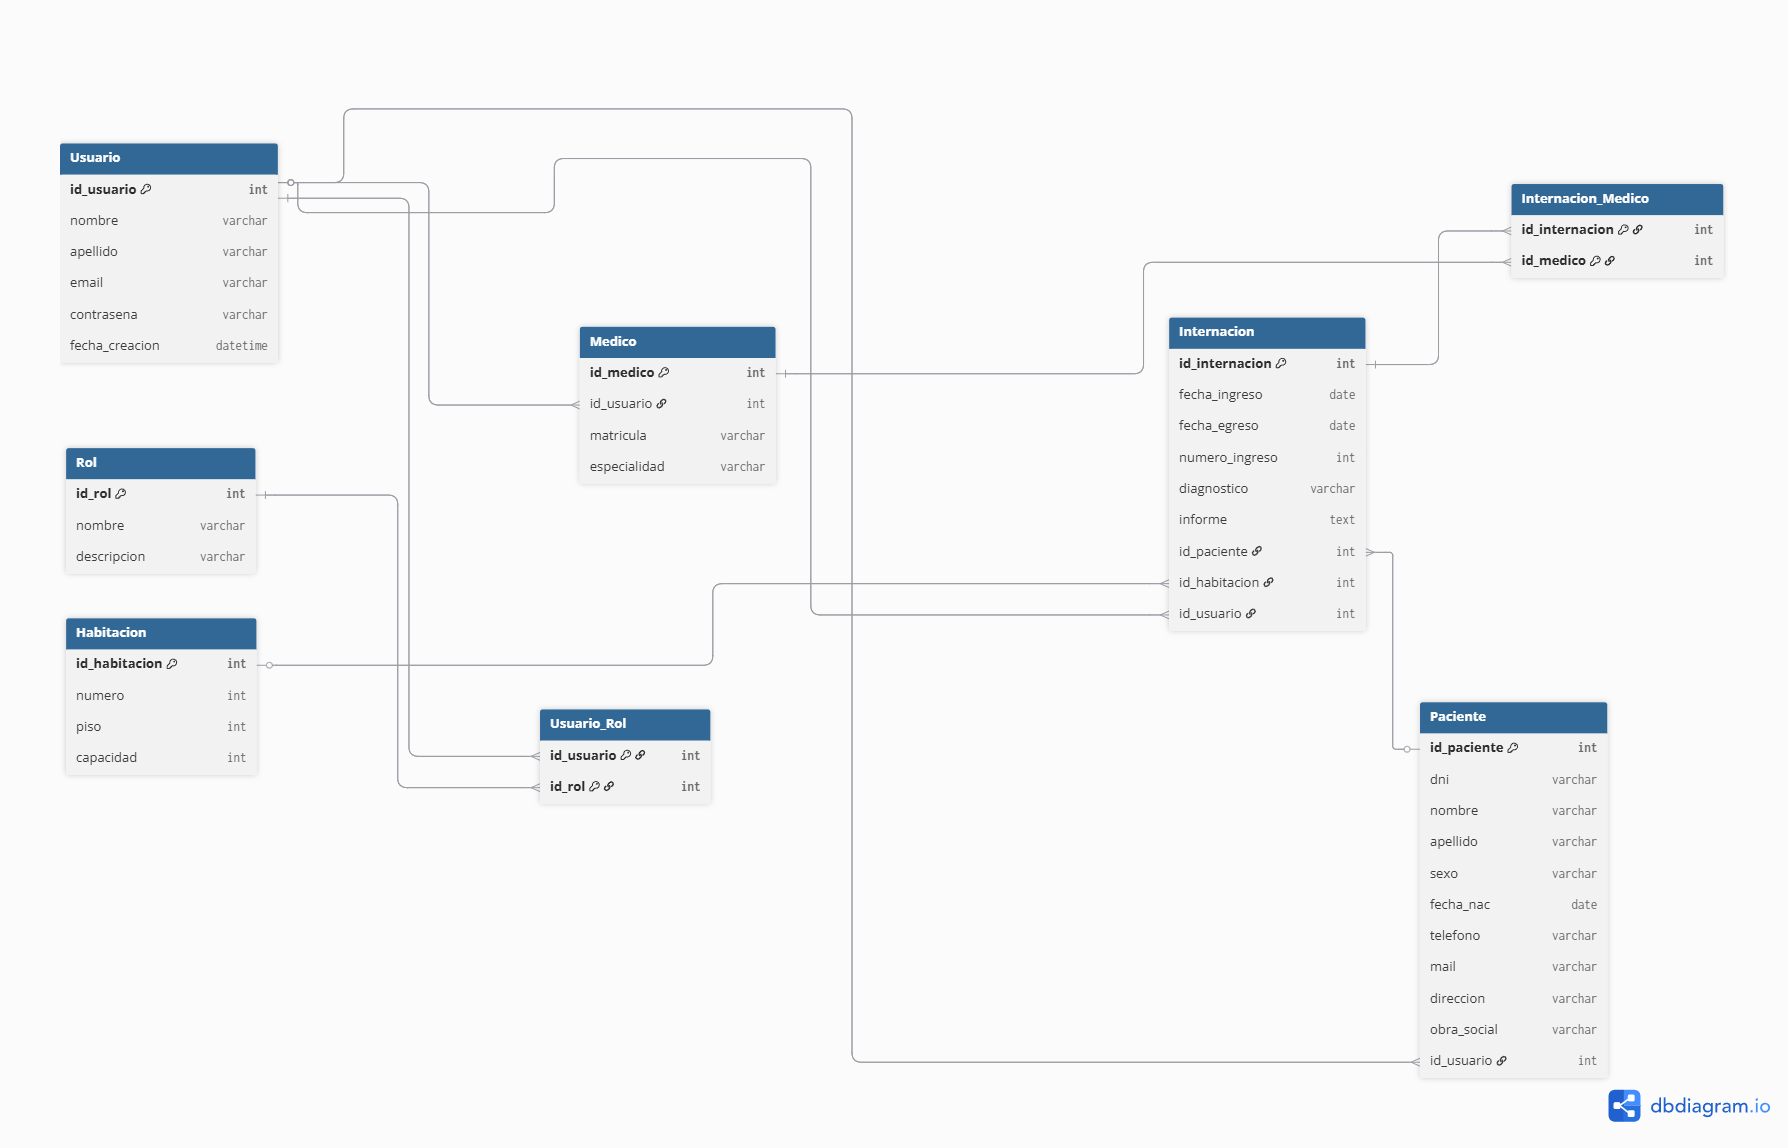
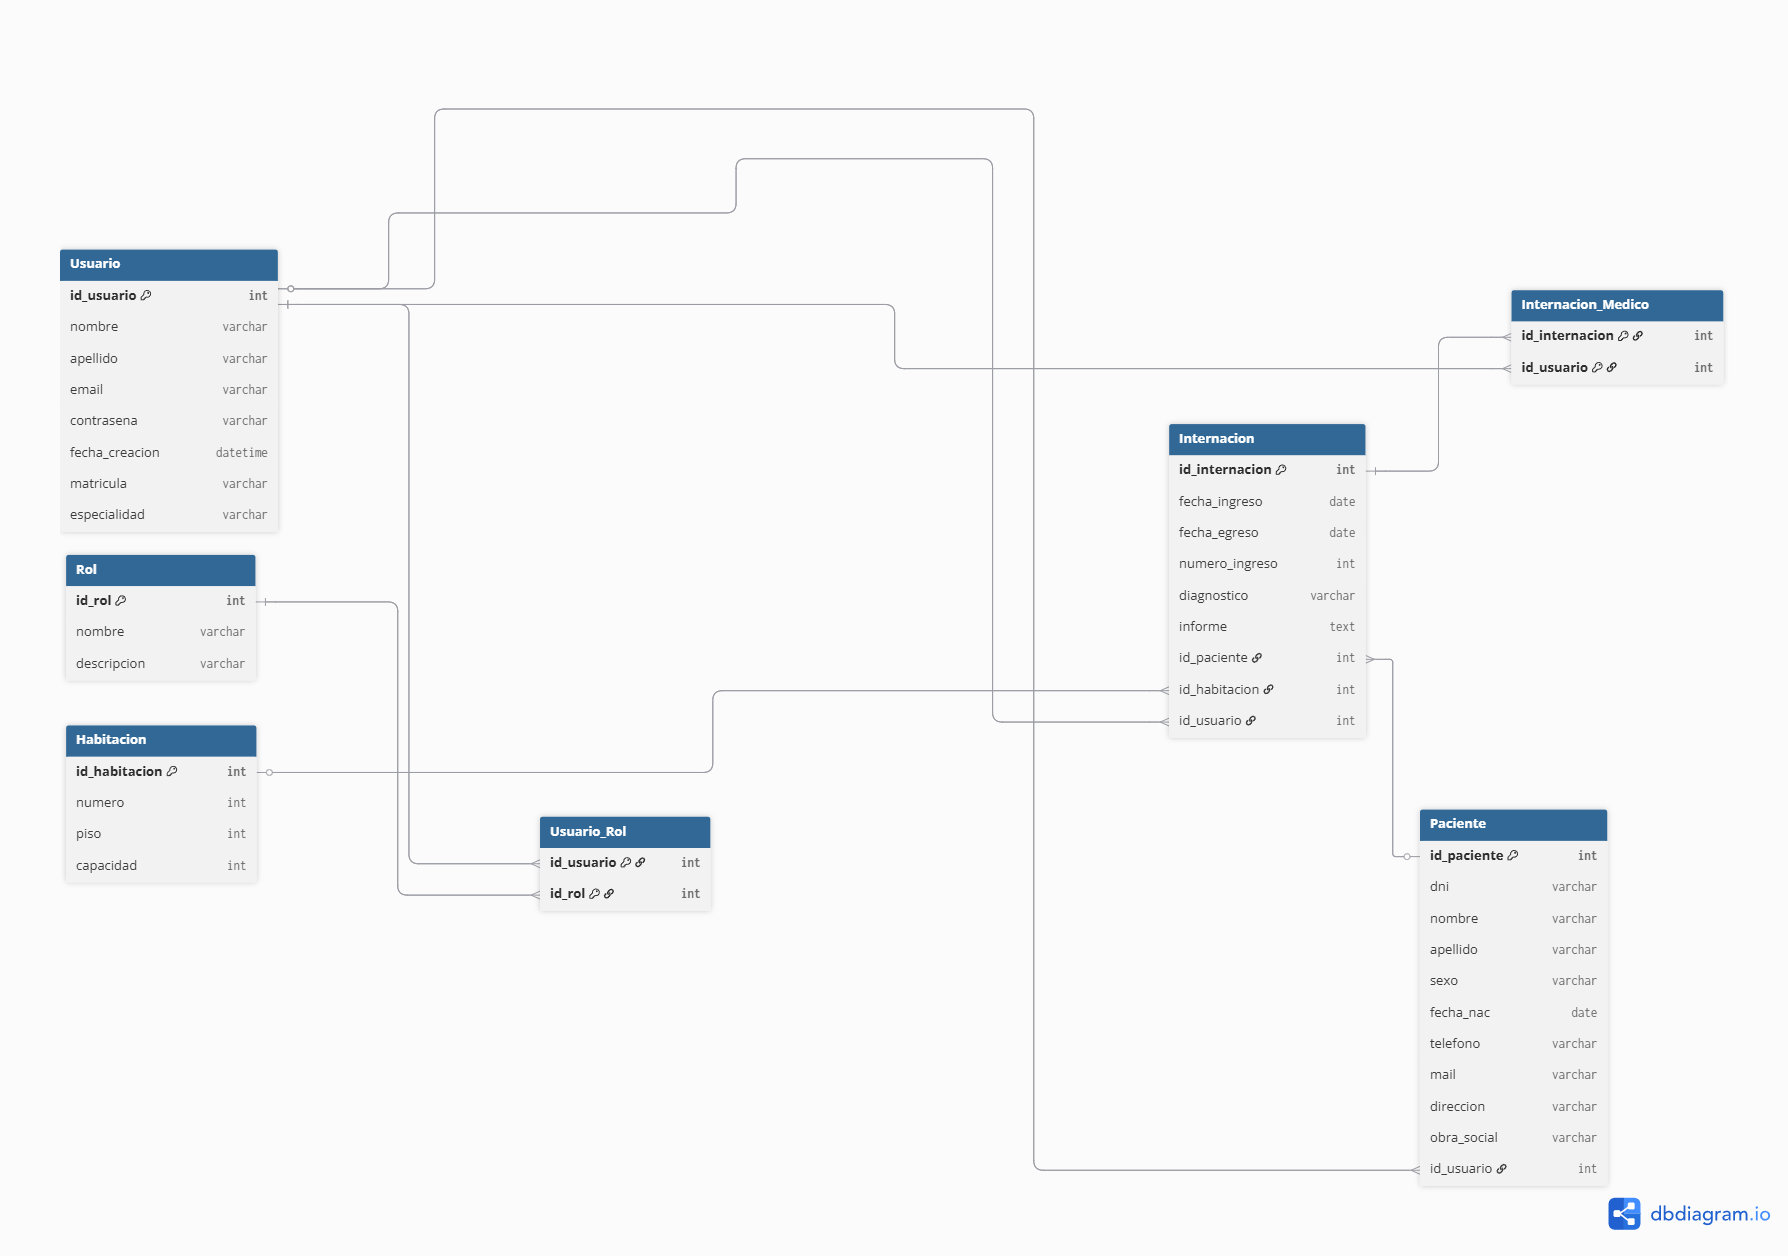
fix tabla medicos

diff --git a/docs/diagrams/diagrama-der.md b/docs/diagrams/diagrama-der.md
@@ -7,7 +7,7 @@ ClinicFlow es un sistema web diseñado para optimizar la gestión de ingresos y 
 ## **Tablas y Descripción**
 
 ### 1. `Usuario`
-Contiene todos los usuarios del sistema, independientemente de su rol.
+Contiene todos los usuarios del sistema, independientemente de su rol. Los campos `matricula` y `especialidad` son opcionales y se usan solo si el usuario tiene rol médico.
 
 **Columnas:**
 - `id_usuario` (PK): Identificador único del usuario.
@@ -16,10 +16,13 @@ Contiene todos los usuarios del sistema, independientemente de su rol.
 - `email`: Correo electrónico para login.
 - `contrasena`: Contraseña del usuario.
 - `fecha_creacion`: Fecha de creación del registro.
+- `matricula` (opcional): Solo para usuarios con rol médico.
+- `especialidad` (opcional): Solo para usuarios con rol médico.
 
 **Relaciones:**
 - Se relaciona con `Rol` mediante `Usuario_Rol`.
-- Se relaciona con `Paciente`, `Medico` e `Internacion` para registrar quién realizó acciones.
+- Se relaciona con `Paciente` e `Internacion` para registrar quién realizó acciones.
+- Se relaciona con `Internacion_Medico` si el usuario tiene rol médico.
 
 ---
 
@@ -75,21 +78,7 @@ Almacena las habitaciones disponibles en la institución de salud.
 
 ---
 
-### 6. `Medico`
-Información específica de los médicos del sistema.
-
-**Columnas:**
-- `id_medico` (PK)
-- `id_usuario` (FK → `Usuario.id_usuario`)
-- `matricula`
-- `especialidad`
-
-**Relaciones:**
-- Muchos a muchos con `Internacion` mediante `Internacion_Medico`.
-
----
-
-### 7. `Internacion`
+### 6. `Internacion`
 Registra los ingresos y egresos de pacientes.
 
 **Columnas:**
@@ -106,32 +95,25 @@ Registra los ingresos y egresos de pacientes.
 
 ---
 
-### 8. `Internacion_Medico`
-Relaciona médicos con internaciones (muchos a muchos).
+### 7. `Internacion_Medico`
+Relaciona usuarios con rol médico con internaciones (muchos a muchos).
 
 **Columnas:**
 - `id_internacion` (FK → `Internacion.id_internacion`)
-- `id_medico` (FK → `Medico.id_medico`)
+- `id_usuario` (FK → `Usuario.id_usuario`): Usuario con rol médico.
 
-**Clave primaria compuesta:** `(id_internacion, id_medico)`
+**Clave primaria compuesta:** `(id_internacion, id_usuario)`
 
 **Relaciones:**
-- Muchos a muchos entre `Internacion` y `Medico`.
+- Muchos a muchos entre `Internacion` y usuarios con rol médico.
 
 ---
 
 ## **Resumen de relaciones**
 
 - **Usuario – Rol:** Muchos a muchos mediante `Usuario_Rol`.
-- **Usuario – Paciente / Internacion / Medico:** Uno a muchos.
+- **Usuario – Paciente / Internacion:** Uno a muchos.
 - **Paciente – Internacion:** Uno a muchos.
 - **Habitacion – Internacion:** Uno a muchos.
-- **Medico – Internacion:** Muchos a muchos mediante `Internacion_Medico`.
+- **Usuario (médico) – Internacion:** Muchos a muchos mediante `Internacion_Medico`.
 
----
-
-## **Notas**
-
-- Este diseño permite escalar fácilmente: se pueden agregar nuevos roles sin modificar las tablas principales.
-- Se centraliza la información de usuarios, evitando duplicar datos de nombres y apellidos en varias tablas.
-- Facilita la trazabilidad: se sabe quién registró cada paciente, internación o información médica.
